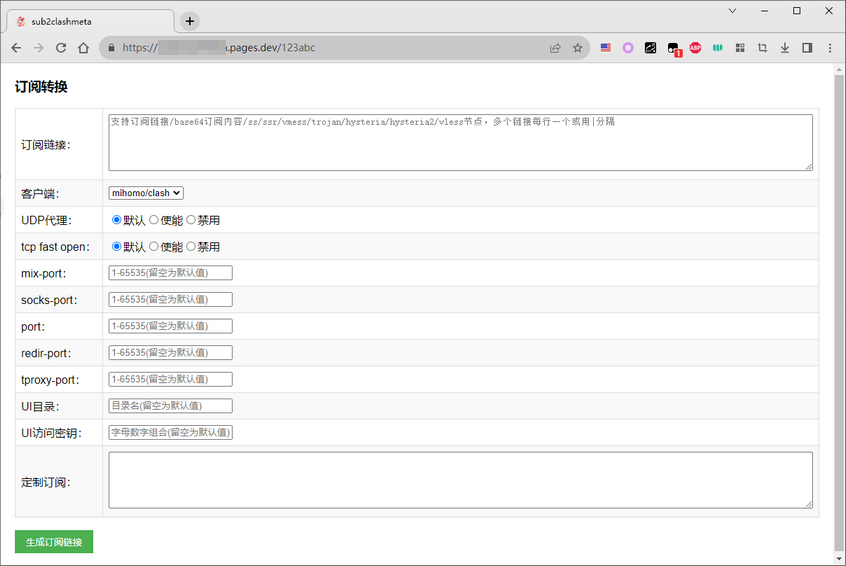
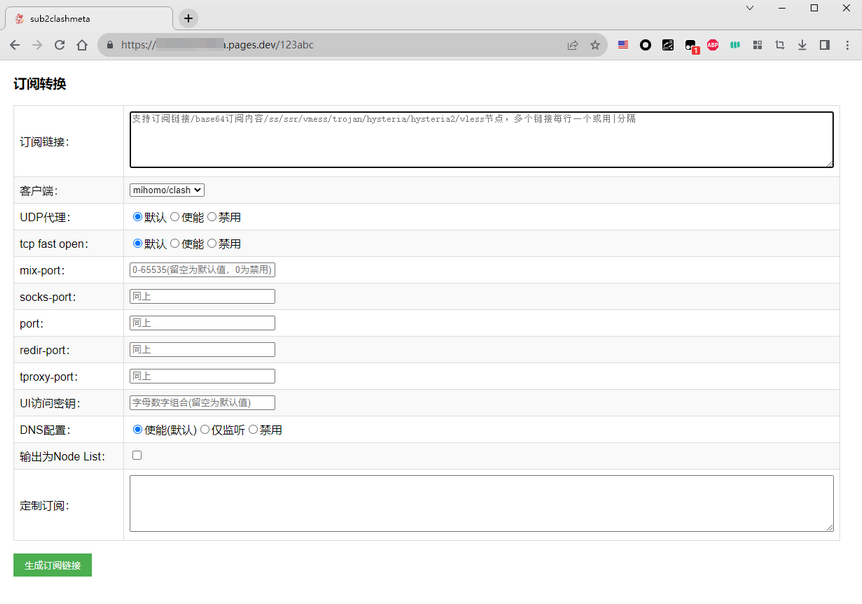
update descriptions

Changed region(s): [[0.0, 0.0, 1.0, 1.0], [0.0, 0.811, 0.0922, 0.871], [0.0, 0.2102, 0.0922, 0.2703]]

diff --git a/README.md b/README.md
@@ -1,7 +1,7 @@
 # sub2clashmeta
-- 纯javascript实现的Clash Meta(mihomo)订阅转换器，搭建在免费的cloudflare pages上，而不需要另外购买vps。
+- Clash订阅转换器，前后端合一，无外部依赖。
 - 支持解析订阅链接、base64节点信息、ss/ssr/vmess/trojan/vless/hysteria/hysteria2节点，并输出YAML配置文件。
-- 自带一个前端页面，可以输入订阅链接进行转换，并对端口、UI、节点udp使能等进行配置。
+- 纯javascript实现，零成本搭建在cloudflare pages上，而不需要另外购买vps。
 
 ### 在线体验
 - 👉[sub2clashmeta](https://sub2clashmeta.pages.dev/123abc)
@@ -18,15 +18,12 @@
 npm install
 npm run dev  (或  wrangler pages dev)
 ```
-- 根据指示访问`http://127.0.0.1:8788`应该可以看到nginx页面，访问`http://127.0.0.1:8788/123456`即可看到订阅转换页面(123456是默认的key，key不匹配会显示为nginx错误页不能使用订阅功能，可以防止其他人随意访问你的网站服务，可以在`dist/_worker.js`中修改变量`key_default`以改变默认key，或者是部署后在`设置>变量和机密`上添加一个变量key来覆盖)，推荐输入订阅链接测试下在本地的转换功能是否正常
-- 测试无误后执行`npm run deploy`或`wrangler pages deploy`部署到cloudflare上(可能提示要登陆cloudflare)
+- 访问`http://127.0.0.1:8788/123456`(注意端口可能不一样，根据实际情况更改。`123456`是默认的访问密钥`key`，可以在`dist/_worker.js`中修改变量`key_default`以改变默认值，或者是部署后在`设置>变量和机密`上添加一个变量`key`来覆盖)
+- 执行`npm run deploy`或`wrangler pages deploy`部署到cloudflare上(需要有cloudflare账号)
 ### 方法二：从github部署
 - fork本项目，然后在cloudflare上新建一个pages项目，选择连接到git，然后选中刚fork好的项目
-- 在第二步中按照如下填写(环境变量key可以不填，这里填了似乎不起作用，后续可以在部署完成后在`变量和机密`下再添加)
-
-![image](useless/2.png)
-
-- 待部署完成后访问`https://<yourpages>.pages.dev/<key>`测试，其中`<key>`就是刚设置的环境变量key，如果没有设置就是默认的`123456`
+- 在第二步中，框架预设：`无`，构建命令：`npm install`，构建输出目录：`dist`，环境变量可选添加一个变量`key`来覆盖默认的访问密钥
+- 部署完成后访问：`https://<yourpages>.pages.dev/<key>`
 
 
 ## 其他说明
@@ -42,8 +39,8 @@ https://raw.githubusercontent.com/peasoft/NoMoreWalls/master/list_raw.txt
 https://raw.githubusercontent.com/ermaozi/get_subscribe/main/subscribe/v2ray.txt
 https://raw.githubusercontent.com/aiboboxx/v2rayfree/main/v2
 https://raw.githubusercontent.com/mfuu/v2ray/master/v2ray
-https://raw.githubusercontent.com/mahdibland/SSAggregator/master/sub/airport_sub_merge.txt
 https://raw.githubusercontent.com/mahdibland/SSAggregator/master/sub/sub_merge.txt
+https://raw.githubusercontent.com/PuddinCat/BestClash/refs/heads/main/proxies.yaml
 ```
 
 ## 参考
